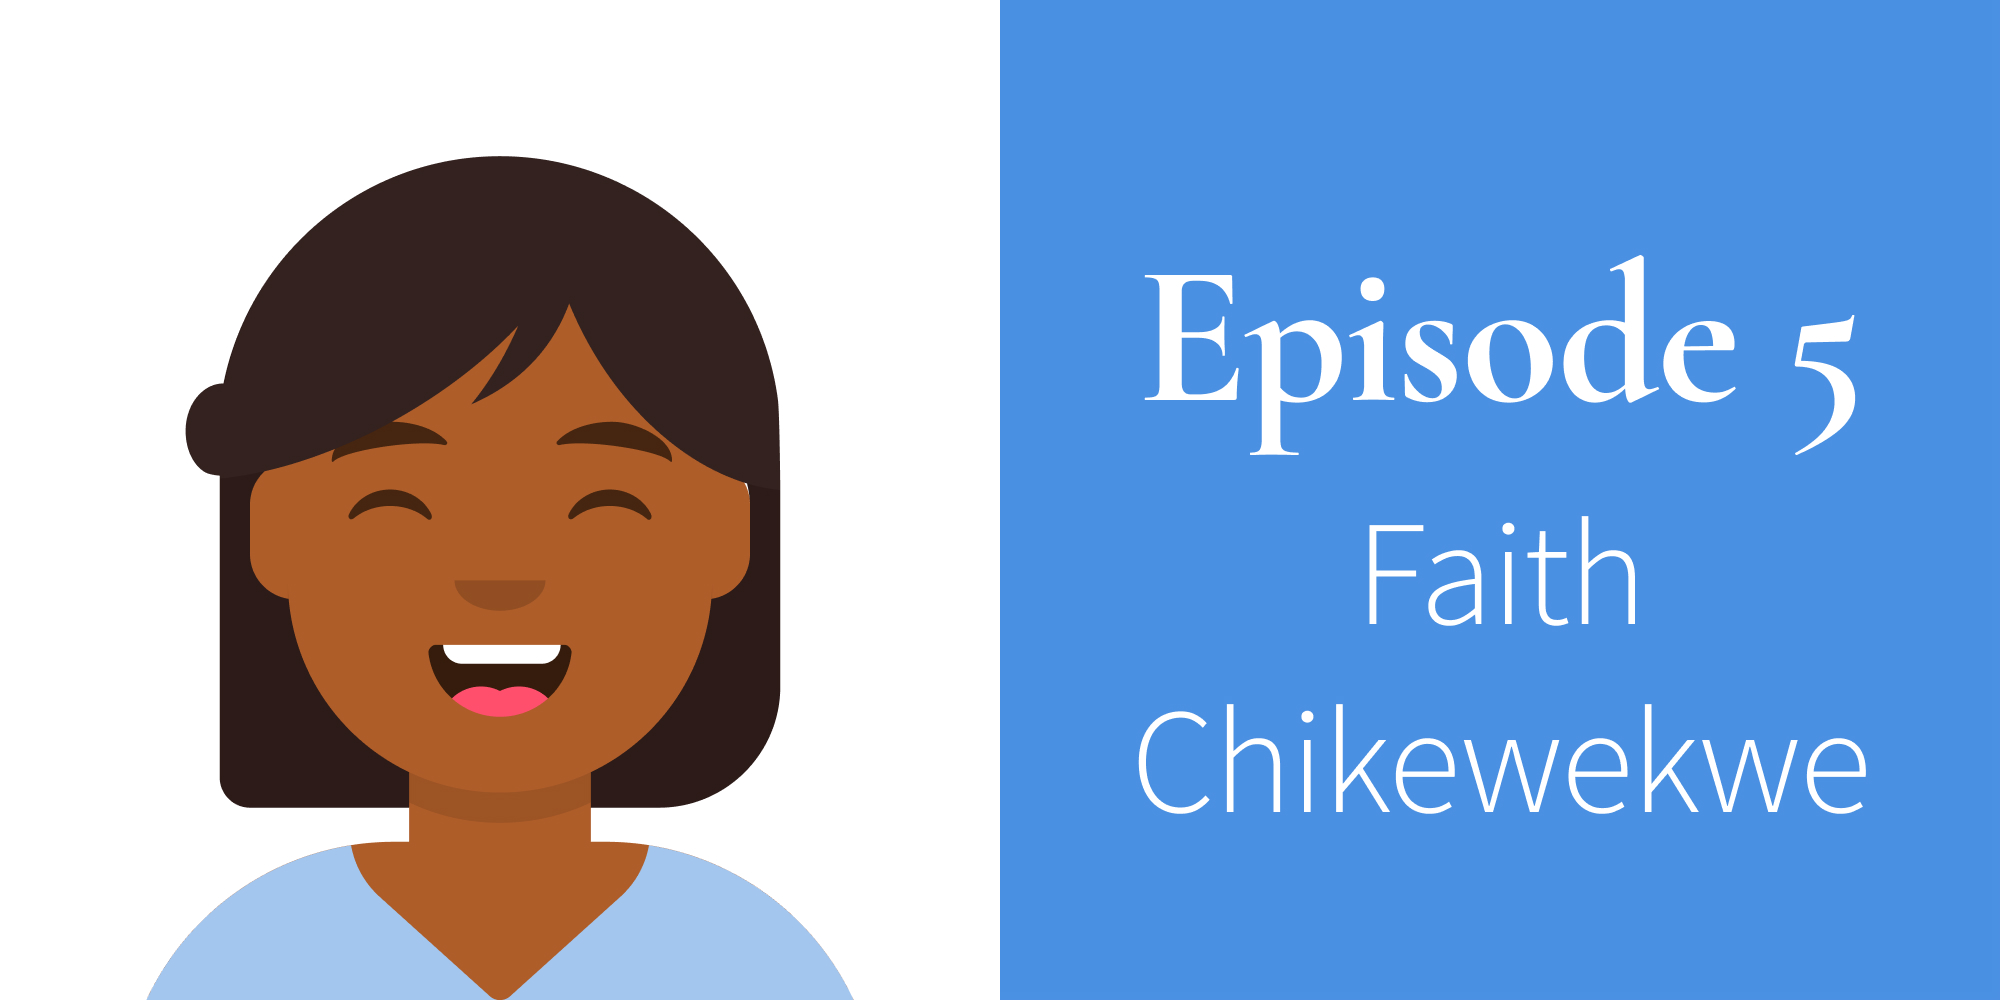
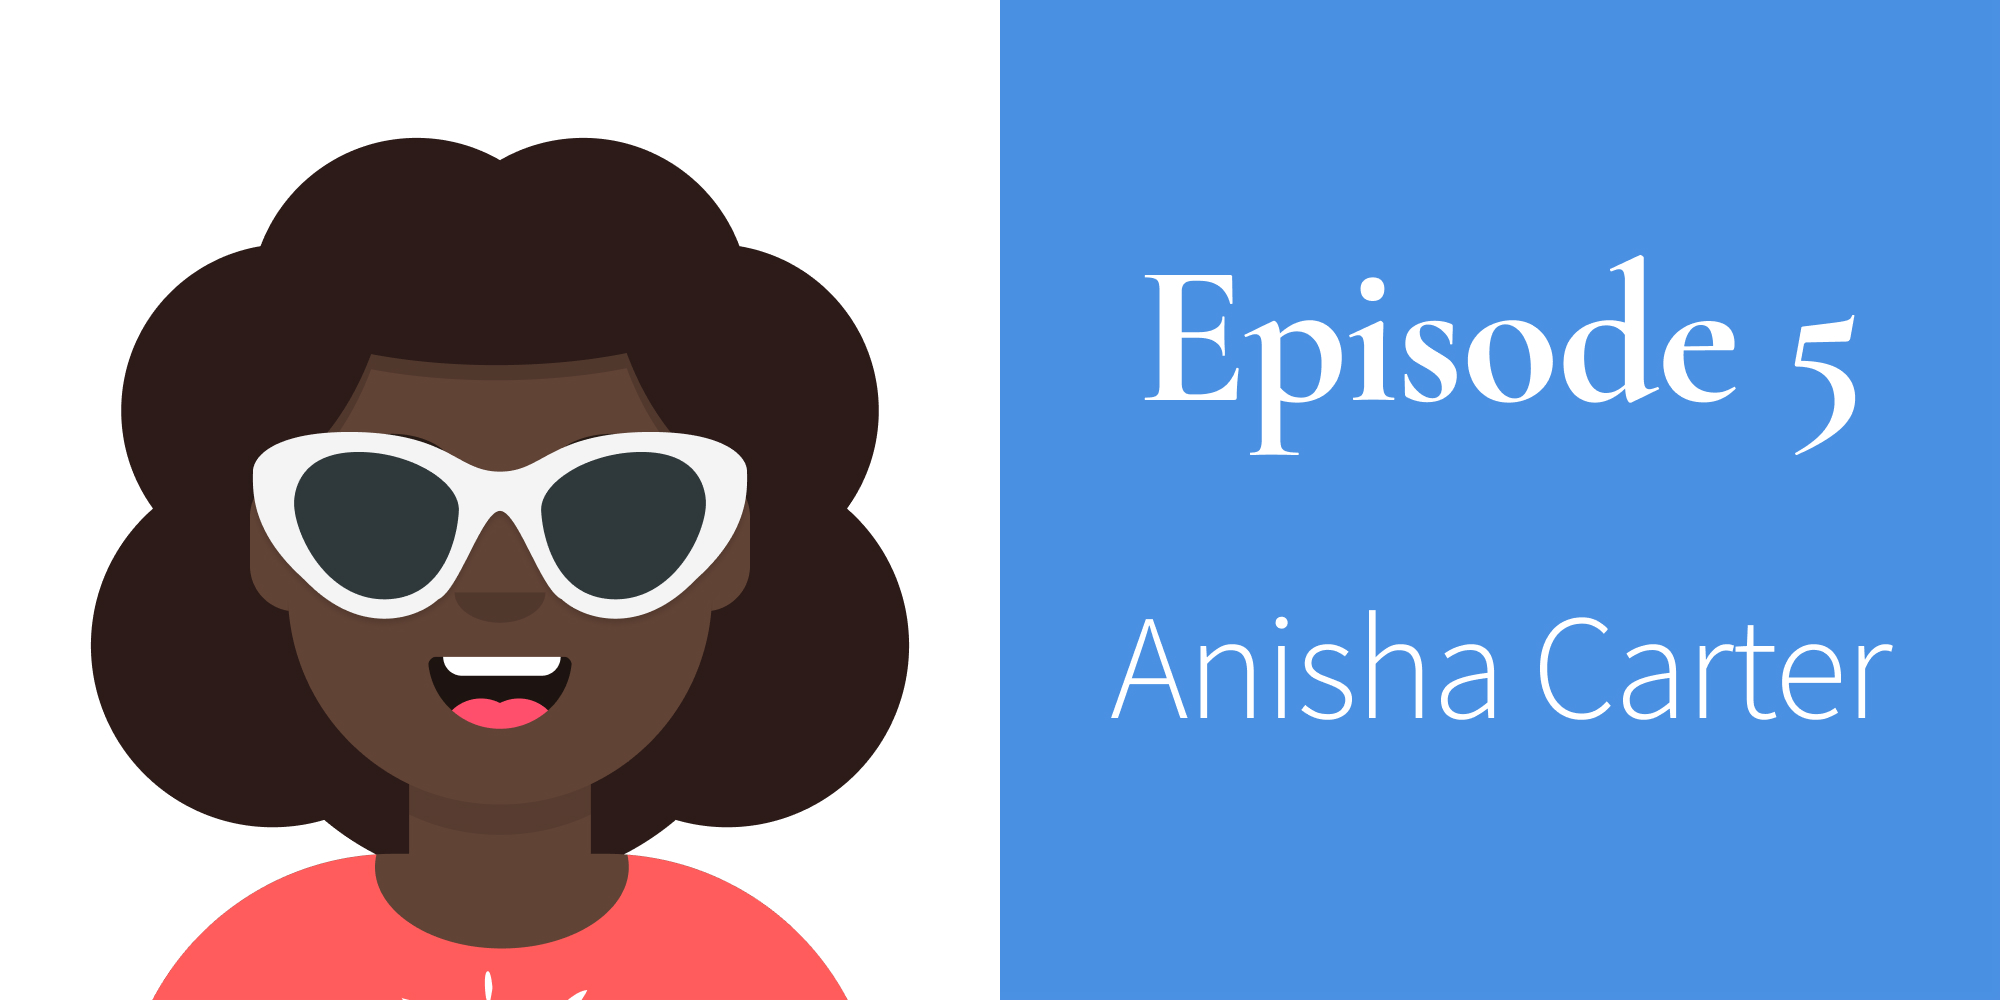
updates episodes

Changed region(s): [[0.031, 0.124, 0.465, 1.0], [0.558, 0.527, 0.961, 0.837]]

diff --git a/layouts/partials/page-info.html b/layouts/partials/page-info.html
@@ -32,7 +32,7 @@
 {{ $experienceDaysTotal := int ((mod (mod $experienceDays 365) (30))) }}
 <!-- Experience Page - show work experience time -->
 <!--
-{{- if eq .Permalink "/experience/" }}
+{{- if eq .RelPermalink "/experience/" }}
 <p class="has-text-weight-light mt-sm">
   <span class="mr-sm">🕒</span>{{- if not (eq $experienceYears 0) }}{{ $experienceYears }} {{- if gt $experienceYears 1 }}years{{ else }}year{{- end }}{{- end }}{{- if not (eq $experienceMonths 0) }} {{ $experienceMonths }} {{- if gt $experienceMonths 1 }}months{{ else }}month{{- end }}{{- end }}{{- if not (eq $experienceDaysTotal 0) }} {{ $experienceDaysTotal }} {{- if gt $experienceDaysTotal 1 }}days{{ else }}day{{- end }}{{- end }} of work experience
 </p>
@@ -96,7 +96,7 @@
   {{ $hours := .Params.hours | int }}
   {{ $freelancingHours = add $freelancingHours $hours }}
 {{- end }}
-{{- if eq .Permalink "/freelancing/" }}
+{{- if eq .RelPermalink "/freelancing/" }}
   <p class="has-text-weight-light mt-sm">
     <span class="mr-sm">💸</span>{{ $freelancingHours }} hours of freelancing so far
   </p>
@@ -114,7 +114,7 @@
   {{ $hours := .Params.hours | int }}
   {{ $mentoringHours = add $mentoringHours $hours }}
 {{- end }}
-{{- if eq .Permalink "/mentoring/" }}
+{{- if eq .RelPermalink "/mentoring/" }}
   <p class="has-text-weight-light mt-sm">
     <span class="mr-sm">💛</span>{{ $mentoringHours }} hours volunteered so far
   </p>
@@ -140,7 +140,7 @@
   </p>
 {{- end }}
 <!-- Speaking -->
-{{- if eq .Permalink "/speaking/" }}
+{{- if eq .RelPermalink "/speaking/" }}
   {{ $talks := ($.Site.Taxonomies.categories.talk).Pages }}
   <p class="has-text-weight-light mt-sm">
     <span class="mr-sm">📢</span>There are

diff --git a/layouts/_default/podcast.html b/layouts/_default/podcast.html
@@ -41,7 +41,7 @@
     {{ if (len $upcomingEpisodes) "ge" 1 }}
     <h2>⏳{{ len $upcomingEpisodes }} Upcoming {{ if gt (len $upcomingEpisodes) 1 }}Episodes{{ else }}Episode{{ end }}</h2>
     <div class="columns is-multiline podcast-episodes">
-      {{ range $upcomingEpisodes.ByDate.Reverse }}
+      {{ range $upcomingEpisodes.ByDate }}
       <div class="column is-half-tablet is-one-third-desktop is-one-third-widescreen is-one-third-fullhd">
         {{ partial "card.html" . }}
       </div>

diff --git a/content/podcast/episode-format.md b/content/podcast/episode-format.md
@@ -5,11 +5,10 @@ image: "/assets/img/podcast/tech-queens-format.jpg"
 noComments: true
 noTimeEstimate: true
 podcastEmail: true
-toc: true
 url: /tech-queens/episode-format/
 ---
 
-# Welcome, future Tech Queen! 👑
+## Welcome, future Tech Queen! 👑
 
 Thank you for taking the time out of your busy day to be on the podcast - I really appreciate it. 💛
 
@@ -250,11 +249,11 @@ The crown emoji 👑 is attributed to Twitter. Copyright 2018 Twitter, Inc and o
 
 Music by Jukedeck - create your own at [jukedeck.com](https://jukedeck.com).
 
----
-
 ## Sanity Check
 
 - How are you feeling? Nervous, excited?
 - Are you in a quiet place?
 - Remember, if you need to start over - just let me know and we can start from the top
-- If you forget to define something, I'll let you know in the form of the question
+- If you forget to define something, I’ll let you know in the form of the question
+- What do you want to get out of this podcast, what do you want listeners to come away with?
+- Did you send me your high-res photo and avatar?

diff --git a/content/about.md b/content/about.md
@@ -37,9 +37,11 @@ Might have something to do with human nature in general, though, so interpret it
 
 ## Bio
 
-Frances Coronel is a software engineer specializing in UI development on the Customer Acquisition Team at Slack.
+**Frances Coronel** is a software engineer specializing in UI development on the Customer Acquisition Team at [**Slack**](https://slack.com?source=fvcproductions) where her mission is to make your working life simpler, more pleasant and more productive.
 
 She has been working professionally as a developer since 2015 and has both a Bachelors and Masters in Computer Science.
+
+Frances is also a board member and open source lead for [**Techqueria**](https://techqueria.org), a nonprofit representing the largest community for Latinx in Tech and the host of [**Tech Queens**](/podcast/), the first and only podcast that focuses on the stories and advice shared by women of color in tech.
 
 Her passions outside of work include contributing to open-source, public speaking and mentoring other URMs in tech.
 

diff --git a/content/posts/2019-05-30-tech-queens-episode-5.md b/content/posts/2019-05-30-tech-queens-episode-5.md
@@ -1,7 +1,7 @@
 ---
-title: "Episode 5. Faith Chikwekwe"
+title: "Episode 5. Anisha Carter"
 date: 2019-05-30
-plannedRecording: 2019-05-01
+initialRecording: 2019-04-27
 description: "TBA"
 image: "/assets/img/podcast/episodes/tech-queens-episode-5.jpg"
 externalLink: https://anchor.fm/tech-queens/
@@ -16,3 +16,5 @@ tags:
   - tech queens
   - women of color in tech
 ---
+
+![Anisha Carter](https://i.imgur.com/Q7mnOxz.png)

diff --git a/content/posts/2019-06-15-tech-queens-episode-6.md b/content/posts/2019-06-15-tech-queens-episode-6.md
@@ -1,0 +1,18 @@
+---
+title: "Episode 6. Faith Chikwekwe"
+date: 2019-06-15
+plannedRecording: 2019-05-01
+description: "TBA"
+image: "/assets/img/podcast/episodes/tech-queens-episode-6.jpg"
+externalLink: https://anchor.fm/tech-queens/
+toc: true
+url: /tech-queens/episode-6/
+aliases:
+  - /podcast/episode-6/
+  - /episode-6/
+categories:
+  - podcast
+tags:
+  - tech queens
+  - women of color in tech
+---
